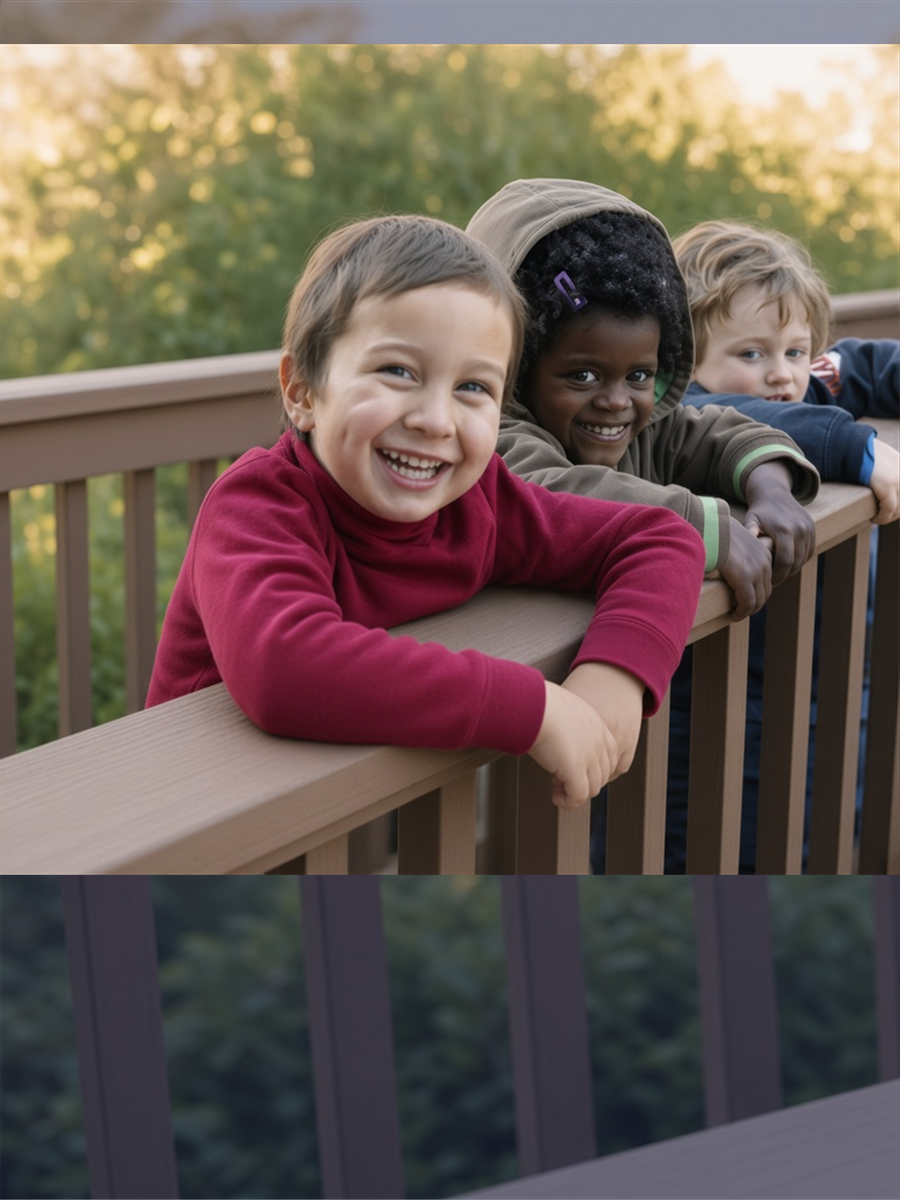
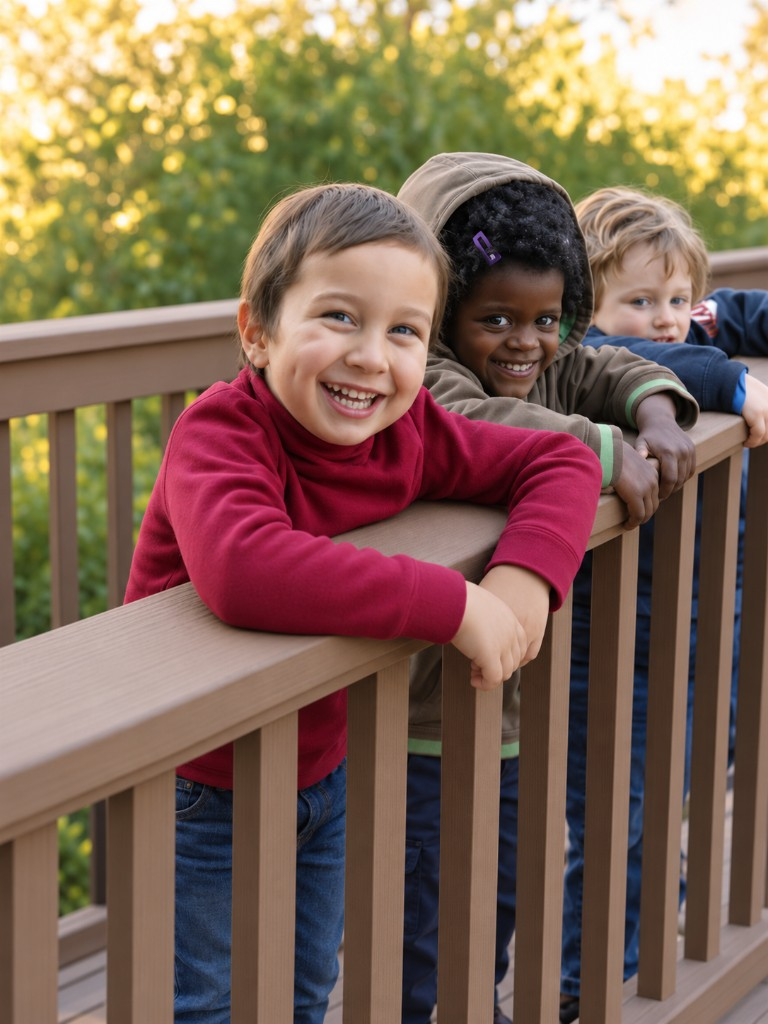
Swap the home mobile hero for the new portrait photo.

diff --git a/src/app/page.tsx b/src/app/page.tsx
@@ -34,7 +34,7 @@ export default function HomePage() {
         image={{
           src: "/images/hero-children-wide.png",
           // Tighter crop around the three kids for tall phone frames.
-          srcMobile: "/images/hero-children-portrait.png",
+          srcMobile: "/images/hero-children-mobile.png",
           alt: "Three smiling preschoolers leaning on a wooden railing outdoors",
           // Desktop: group in the open right half beside the type lockup.
           focal: "72% 40%",
